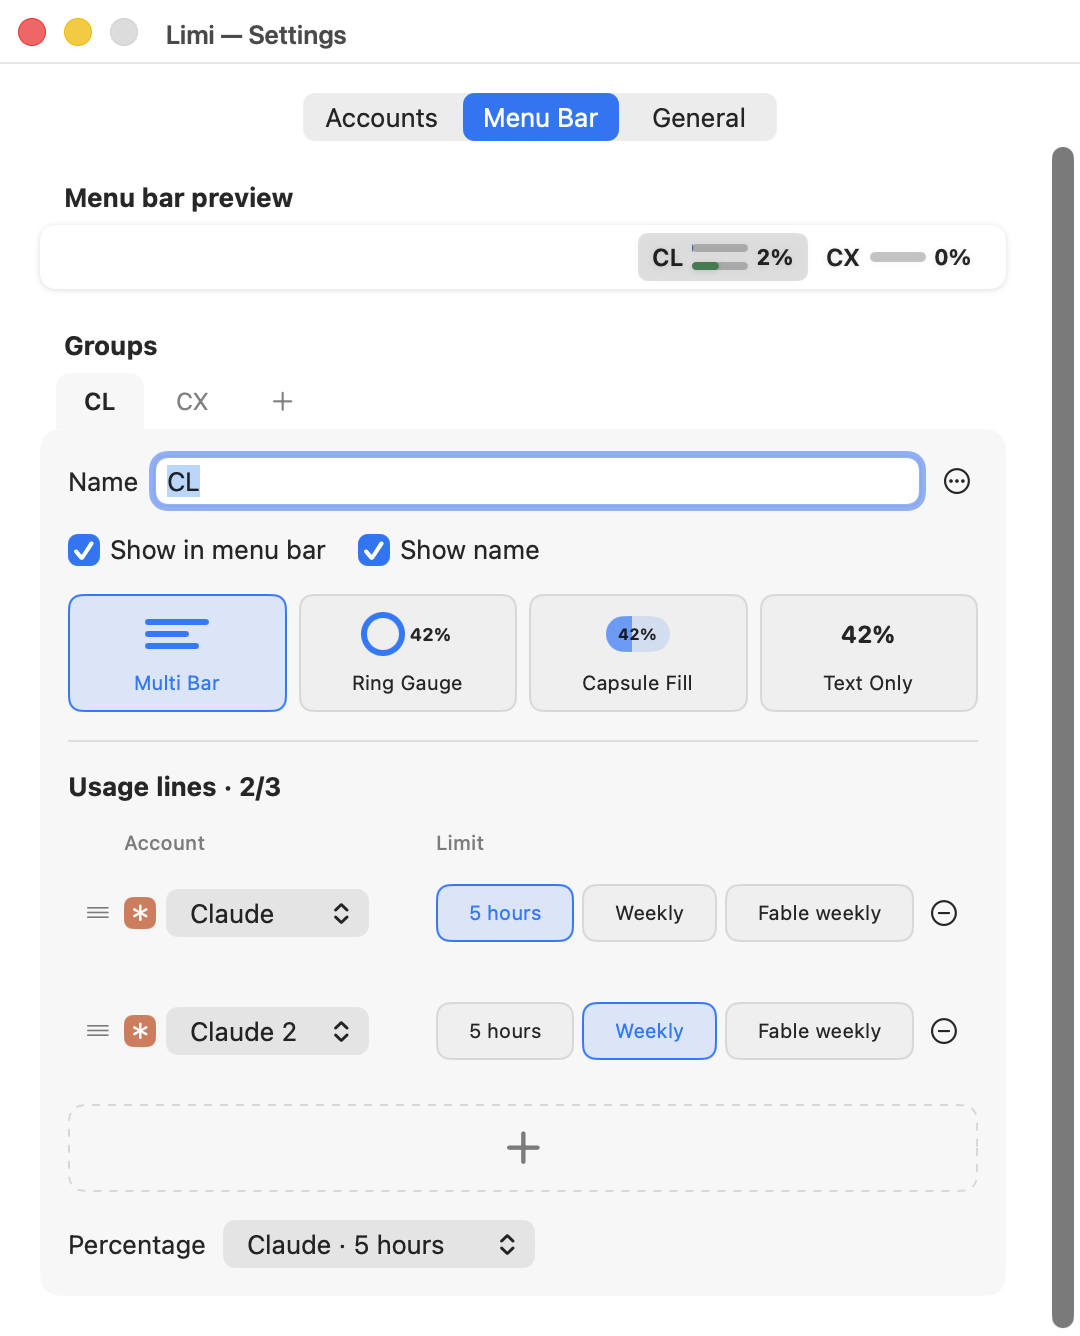
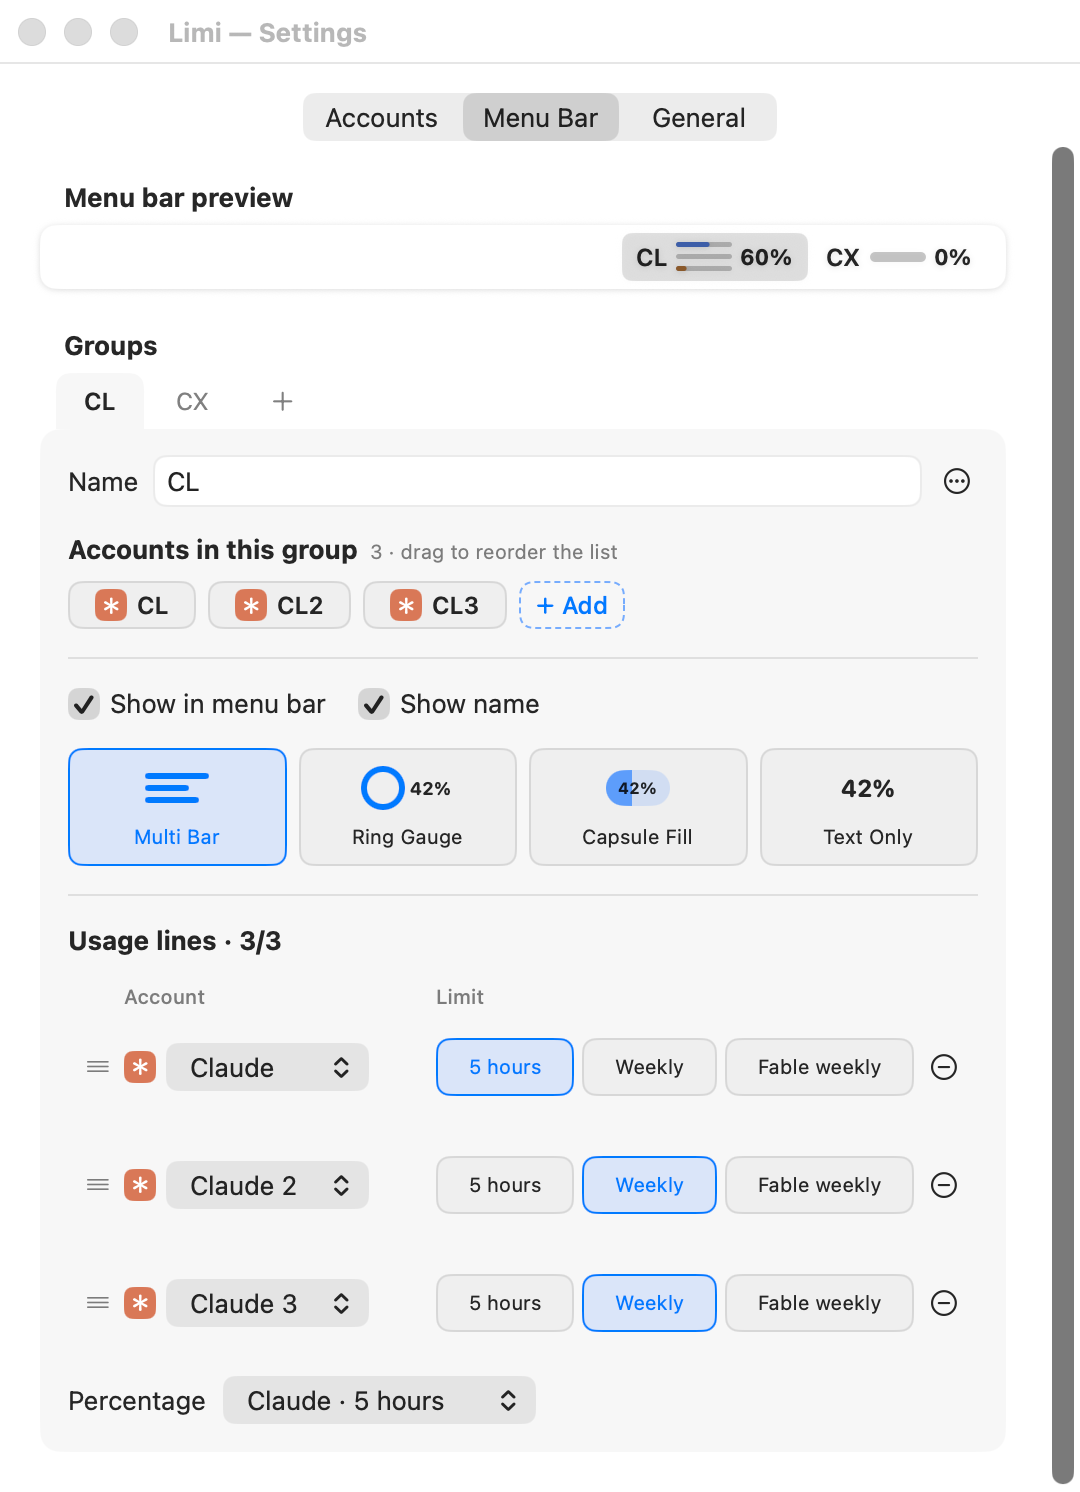
README and pictures for 1.3.0: sorting, Accounts tab

diff --git a/README.ko.md b/README.ko.md
@@ -34,7 +34,7 @@
 <table>
   <tr>
     <td align="center" valign="top" width="50%">
-      <img src="docs/images/settings-accounts.png" width="400" alt="Limi 설정의 계정 탭: Claude 둘과 Codex 하나"><br>
+      <img src="docs/images/settings-accounts.png" width="400" alt="Limi 설정의 계정 탭: Claude 셋과 Codex 하나, Claude Code가 쓰는 계정에 사용 중 표시"><br>
       <b>계정 여러 개</b><br><sub>Claude Code와 Codex 계정을 함께 등록</sub>
     </td>
     <td align="center" valign="top" width="50%">
@@ -44,12 +44,12 @@
   </tr>
   <tr>
     <td align="center" valign="top">
-      <img src="docs/images/settings-menubar.png" width="340" alt="Limi 설정의 메뉴 막대 탭: 그룹, 그룹의 계정, 모양, 사용량 줄"><br>
+      <img src="docs/images/settings-menubar.png" width="320" alt="Limi 설정의 메뉴 막대 탭: 그룹, 그룹의 계정, 모양, 사용량 줄"><br>
       <b>메뉴 막대 꾸미기</b><br><sub>그룹과 그 계정, 모양, 보여 줄 한도를 원하는 대로</sub>
     </td>
     <td align="center" valign="top">
-      <img src="docs/images/readme-popover-claude2.png" width="320" alt="Limi 패널: 그룹의 계정 목록, 계정마다 한도와 초기화까지 남은 시간"><br>
-      <b>그룹마다 목록 한 장</b><br><sub>그룹에 넣은 계정을 한도와 함께 모두</sub>
+      <img src="docs/images/readme-popover-claude2.png" width="400" alt="Limi 패널: 그룹의 계정 목록과 정렬 단추, 계정마다 한도와 초기화까지 남은 시간"><br>
+      <b>그룹마다 목록 한 장</b><br><sub>그룹에 넣은 계정을 한도와 함께 모두, 원하는 순서로</sub>
     </td>
   </tr>
 </table>
@@ -62,7 +62,7 @@
       <img src="docs/images/cap-switch.svg" width="52" height="52" alt=""><br>
       <b>Claude Code 계정을 클릭 한 번에</b> <sup>새 기능</sup><br>
       평소 쓰는 <code>claude</code>가 쓸 계정을 내 Claude 계정 가운데서 고릅니다. 처음 한 번 로그인해 두면 브라우저가 뜨지 않고, 열린 세션도 30초 안에 따라옵니다.<br><br>
-      <img src="docs/images/claude-code-switch.png" width="300" alt="Limi 패널: 그룹 목록의 Claude 계정 줄과 쓰기 단추">
+      <img src="docs/images/claude-code-switch.png" width="396" alt="Limi 패널: 그룹 목록에서 사용 중인 Claude 계정 줄. 다른 Claude 계정 줄에 마우스를 올리면 쓰기 단추가 보임">
     </td>
   </tr>
   <tr>
@@ -96,7 +96,7 @@
 - **Claude Code에서 쓰기**: 그룹 목록의 Claude 계정에서 **쓰기**를 누르면, 평소 쓰는 `claude`의 로그인이 클릭 한 번에 그 계정으로 바뀝니다. 바꿀 때마다 브라우저로 로그인하지 않아도 됩니다([동작 방식](#claude-code에서-쓰기)).
 - **Antigravity**(실험 기능): 이 맥의 `agy`나 Antigravity 앱에 로그인된 계정 하나를 봅니다.
 - 서비스가 알려 주면 Claude의 모델별 주간 한도와 Antigravity의 모델 그룹별 한도도 보여 줍니다.
-- 메뉴 막대 그룹에 계정을 개수 제한 없이 넣고(**설정 › 메뉴 막대**의 **이 그룹의 계정**), 그룹을 누르면 그 계정을 모두 목록 한 장으로 봅니다. 줄마다 계정 배지, 요금제, 주소와 5시간·주간 한도가 있고, 서비스가 알려 주면 모델별 주간 한도도 있습니다. 칸마다 %와 초기화까지 남은 시간을 보여 줍니다.
+- 메뉴 막대 그룹에 계정을 개수 제한 없이 넣고(**설정 › 메뉴 막대**의 **이 그룹의 계정**), 그룹을 누르면 그 계정을 모두 목록 한 장으로 봅니다. 줄마다 계정 배지, 요금제, 주소와 5시간·주간 한도가 있고, 서비스가 알려 주면 모델별 주간 한도도 있습니다. 칸마다 %와 초기화까지 남은 시간을 보여 줍니다. 목록 위 **정렬** 단추로 내가 정한 순서(**수동**)로 두거나, **5시간 초기화**·**주간 초기화**가 가까운 계정부터 놓습니다. 그룹마다 고른 것을 기억합니다.
 - 그룹에 넣은 계정의 한도 가운데 세 줄까지 골라 메뉴 막대에 보여 줍니다(링 게이지는 한 줄, 텍스트만은 줄 수 제한 없음). 그룹·줄·계정은 끌어다 놓아 순서를 바꿉니다. 그룹 안 계정 순서는 설정의 칩이나 목록의 줄을 끌어 바꿉니다.
 - 읽지 못한 값은 0%가 아니라 `--`로 보여 주고, 지난 값을 보여 줄 때는 저장된 값이라고 표시합니다.
 - 1, 2, 5, 10분 중 고른 간격으로 새로 고치고, 바로 새로 고칠 수도 있습니다. 그룹에 넣은 계정은 메뉴 막대 줄에 없어도 새로 고칩니다. 서비스마다 한 번에 한 계정씩, 요청 사이를 잠깐 쉬며 고칩니다(Claude 1초, Codex 0.5초). **메뉴 막대에 표시**를 끈 그룹은 건너뜁니다.

diff --git a/README.md b/README.md
@@ -34,7 +34,7 @@
 <table>
   <tr>
     <td align="center" valign="top" width="50%">
-      <img src="docs/images/settings-accounts.png" width="400" alt="Limi Settings, Accounts tab: two Claude accounts and one Codex account"><br>
+      <img src="docs/images/settings-accounts.png" width="400" alt="Limi Settings, Accounts tab: three Claude accounts and one Codex account, with the one Claude Code uses marked In use"><br>
       <b>Several accounts</b><br><sub>Claude Code and Codex accounts side by side</sub>
     </td>
     <td align="center" valign="top" width="50%">
@@ -44,12 +44,12 @@
   </tr>
   <tr>
     <td align="center" valign="top">
-      <img src="docs/images/settings-menubar.png" width="340" alt="Limi Settings, Menu Bar tab: groups, the accounts in a group, styles and usage lines"><br>
+      <img src="docs/images/settings-menubar.png" width="320" alt="Limi Settings, Menu Bar tab: groups, the accounts in a group, styles and usage lines"><br>
       <b>Make the menu bar yours</b><br><sub>Groups and their accounts, styles and the limits to show</sub>
     </td>
     <td align="center" valign="top">
-      <img src="docs/images/readme-popover-claude2.png" width="320" alt="Limi panel: a group's accounts in one list, each with its limits and when they reset"><br>
-      <b>One list per group</b><br><sub>Every account in the group, with its limits</sub>
+      <img src="docs/images/readme-popover-claude2.png" width="400" alt="Limi panel: a group's accounts in one list with a Sort button, each with its limits and when they reset"><br>
+      <b>One list per group</b><br><sub>Every account in the group, with its limits, sorted your way</sub>
     </td>
   </tr>
 </table>
@@ -62,7 +62,7 @@
       <img src="docs/images/cap-switch.svg" width="52" height="52" alt=""><br>
       <b>Switch Claude Code accounts in one click</b> <sup>NEW</sup><br>
       Choose which of your Claude accounts your own <code>claude</code> uses. After a one-time sign-in no browser opens, and open sessions follow within 30 seconds.<br><br>
-      <img src="docs/images/claude-code-switch.png" width="300" alt="Limi panel: a Claude account's row in a group's list, with the Use button">
+      <img src="docs/images/claude-code-switch.png" width="396" alt="Limi panel: a Claude account's row in a group's list, marked In use. Point at another Claude account's row to see its Use button">
     </td>
   </tr>
   <tr>
@@ -96,7 +96,7 @@ Also in Limi:
 - **Use in Claude Code**: press **Use** on a Claude account in a group's list to switch the login your own `claude` uses to that account in one click, without the browser each time ([how it works](#use-in-claude-code)).
 - **Antigravity** (experimental): the one account signed in to `agy` or the Antigravity app on this Mac.
 - Claude's per-model weekly limits and Antigravity's model groups, when the service reports them.
-- Put any number of accounts in a menu bar group (**Accounts in this group** in **Settings › Menu Bar**), and click the group to see them all in one list. Each row has the account's badge, plan and address, its 5-hour and weekly limits, and each model's weekly limit when the service reports it, every cell with a percentage and when it resets.
+- Put any number of accounts in a menu bar group (**Accounts in this group** in **Settings › Menu Bar**), and click the group to see them all in one list. Each row has the account's badge, plan and address, its 5-hour and weekly limits, and each model's weekly limit when the service reports it, every cell with a percentage and when it resets. Click **Sort** above the list to keep your own order (**Manual**) or put the soonest **5-hour reset** or **Weekly reset** first. Each group remembers its choice.
 - Up to three usage lines in each menu bar group, taken from the group's accounts and their limits (Ring Gauge shows one, Text Only any number). Drag groups, lines and accounts to reorder them, and a group's accounts by their chips in Settings or their rows in the list.
 - A value Limi could not read shows as `--`, never a made-up 0%, and older values are marked as cached.
 - Refreshes every 1, 2, 5 or 10 minutes, or on demand. Every account in a group is refreshed, even one without a line in the menu bar: one account at a time per service, with a short pause between requests (1 second for Claude, 0.5 seconds for Codex). Groups with **Show in menu bar** turned off are skipped.
